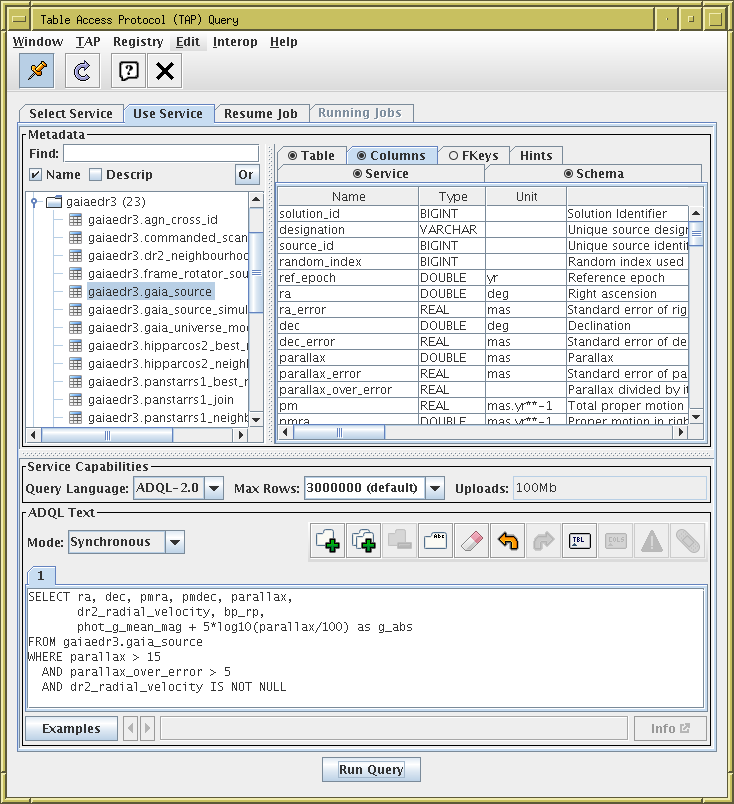
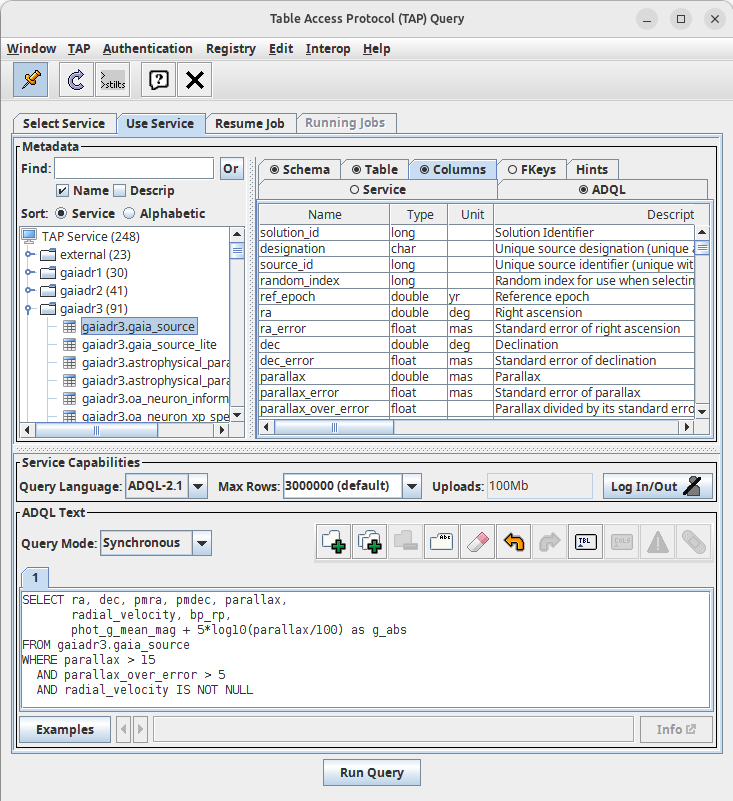
update to Gaia DR3
I have updated the text and the ADQL queries to refer to
Gaia DR3 instead of Gaia EDR3.

The makefile is also updated to generate the intermediate data
file hy3d.fits.

fixup gaia dr3

diff --git a/tctuto.tex b/tctuto.tex
@@ -61,7 +61,7 @@
 \tableofcontents
 
 \vspace{3ex}
-This tutorial uses data from Gaia Early Data Release 3 (EDR3) \cite{edr3}
+This tutorial uses data from Gaia Data Release 3 (DR3) \cite{dr3}
 to lead you through some of the capabilities of TOPCAT and STILTS.
 For best results, you should have the manuals to hand:
 \url{http://www.starlink.ac.uk/topcat/sun253/} and
@@ -85,9 +85,9 @@ the stars in the globular cluster Messier 4 (M4, or NGC 6121).
   \item Open the \mb{CONE_DIALOG.png}{VO}{Cone Search} window \\
         (i.e.\ use the \lab{Cone Search} submenu of the \lab{VO} menu
          in the main topcat window).
-  \item Fill in \entry{Keywords}{gaia edr3}, and hit \lab{Find Services}.
+  \item Fill in \entry{Keywords}{gaia dr3}, and hit \lab{Find Services}.
   \item There are a few options, that should mostly give similar results.
-        The one with Short Name ``{\tt eDR3 lite Cone}'' is a good choice.
+        The one with Short Name ``{\tt DR3 lite Cone}'' is a good choice.
         Select it by clicking on its row, and the
         partial URL of the service appears in the \lab{Cone URL} field.
   \item Fill in \entry{Object Name}{M4}, then hit \lab{Resolve} to fill in
@@ -100,6 +100,7 @@ the stars in the globular cluster Messier 4 (M4, or NGC 6121).
         which retrieves about 20\,000 rows,
         and maybe \entry{Verbosity}{1},
         which reduces the number of columns requested.
+        Or try it with another of the listed services.
   \item Use the \mb{skyplot_button.png}{Graphics}{Sky Plot} window
         to see the positions on the sky.
   \item Play with the plot.  Note overdense regions are coloured darker.
@@ -218,7 +219,7 @@ the stars in the globular cluster Messier 4 (M4, or NGC 6121).
   with smallish errors.
   Rule of thumb for single measurements:
   if $\varpi/\sigma_\varpi>5$ it's probably OK.
-  See Luri et al.\ 2018 \cite{luri} for full discussion.
+  See Luri et al.\ 2018 \cite{luri} for fuller discussion.
 \end{minipage}
 \begin{minipage}[t]{8cm}
   \winfig{width=8cm}{m4_subsets.png}
@@ -262,15 +263,15 @@ So we need to make a more sophisticated query using TAP.
   their metadata.
   \begin{enumerate}
   \item Browse the table list on the left,
-        The tables in the {\tt gaiaedr3} schema
-        are the ones with Gaia EDR3 data.
-  \item Select table {\tt gaiaedr3.gaia\_source} and look at
+        The tables in the {\tt gaiadr3} schema
+        are the ones with Gaia DR3 data.
+  \item Select table {\tt gaiadr3.gaia\_source} and look at
         \lab{Table} and \lab{Columns} tabs,
         to see information about available columns.
   \item Look in the \lab{Service} tab to see information about the service
   \item Look in the \lab{Hints} tab for a very basic ADQL cheat sheet
   \item Type in to the bottom panel some very simple ADQL:\\
-        ``{\tt SELECT TOP 10 ra, dec FROM gaiaedr3.gaia\_source}''
+        ``{\tt SELECT TOP 10 ra, dec FROM gaiadr3.gaia\_source}''
   \item Note that syntax errors (including partial or misspelt tables/columns)
         are highlighted in red.
   \item Hit \lab{Run Query} to run the query;
@@ -282,15 +283,15 @@ So we need to make a more sophisticated query using TAP.
   In the TAP window, execute this query:
   \begin{verbatim}
     SELECT ra, dec, pmra, pmdec, parallax,
-           dr2_radial_velocity, bp_rp,
+           radial_velocity, bp_rp,
            phot_g_mean_mag + 5*log10(parallax/100) as g_abs
-    FROM gaiaedr3.gaia_source
+    FROM gaiadr3.gaia_source
     WHERE parallax > 15
     AND parallax_over_error > 5
-    AND dr2_radial_velocity IS NOT NULL
+    AND radial_velocity IS NOT NULL
   \end{verbatim}
   \vspace*{-2ex}
-  The result should contain about 25\,000 rows.
+  The result should contain about 60\,000 rows.
 \end{minipage}
 \begin{minipage}[t]{8cm}
   \winfig{width=8cm}{hy_tapsel.png}
@@ -304,7 +305,7 @@ So we need to make a more sophisticated query using TAP.
 The query is for all the nearby sources
 (nominally within 1000/15 $\approx$ 66\,parsec)
 with observed radial velocities
-(only about 7 million DR2/EDR3 sources have RV)
+(only about 34 million out of 2 billion DR3 sources have RV)
 and good determinations of parallax.
 The fact that parallax error is $\leq$20\% means that it's OK
 to invert parallax to calculate distance and absolute magnitude.
@@ -335,16 +336,14 @@ TOPCAT's {\em expression language\/} can help.
         and {\tt astromXYZ} functions.
         The \lab{Examples} items in the function documentation are useful;
         for use with the {\tt gaia\_source} catalogue,
-        you can often just cut and paste, though note
-        ``{\tt radial\_velocity}'' may need to be changed to
-        ``{\tt dr2\_radial\_velocity}''.
+        you can often just cut and paste
   \item Open the \mb{cols_button.png}{Views}{Column Info} window
         and choose the \mb{plus_button.png}{Columns}{New Synthetic Column}
         action
   \item Create a new column giving Cartesian velocity components:
         \entry{Name}{uvw}, \entry{Units}{km/s} and for \lab{Expression}:
         \begin{verbatim}
-  astromUVW(array(ra, dec, parallax, pmra, pmdec, dr2_radial_velocity))
+   astromUVW(array(ra, dec, parallax, pmra, pmdec, radial_velocity))
         \end{verbatim}
         \vspace*{-0.5cm}
         That calculates velocities along ICRS axes.
@@ -383,8 +382,8 @@ TOPCAT's {\em expression language\/} can help.
         Click the little \buttimg{navig_help.png} button at bottom left
         for navigation help;
         the most useful actions are mouse wheel
-        (2-fingered up/down drag on some trackpads) to zoom,
-        and right click on a dense region to recenter.
+        (2-fingered drag on some trackpads) to zoom,
+        and right click (or CTRL-click) on a dense region to recenter.
   \item Navigate so only the objects in the overdense region
         (about 200 of them?) are visible inside the wireframe ---
         these are the Hyades.
@@ -451,7 +450,8 @@ TOPCAT's {\em expression language\/} can help.
   \subsection*{Bonus}
   \begin{itemize}
     \item Can you find any other clusters in velocity space?
-    \item Try refining the selection by localising in position space too.
+    \item Try refining the selection by localising in position space
+          or HR space too.
     \item What is the mean distance to the Hyades?
     \item Try using Aladin and SAMP along with TOPCAT
           to investigate the outliers.
@@ -494,9 +494,9 @@ at J2016.0.
   \end{enumerate}
   Alternatively, you could download the table from the VizieR web page.
 \end{minipage}
-\begin{minipage}[t]{8cm}
+\begin{minipage}[t]{7.5cm}
   \vspace*{-1cm}
-  \winfig{width=8cm}{n3_vizier.png}
+  \winfig{width=7.5cm}{n3_vizier.png}
 \end{minipage}
 
 
@@ -506,17 +506,17 @@ at J2016.0.
 \begin{minipage}[t]{11cm}
   \raggedright
   Now we want to find associations of the HST objects with sources
-  from Gaia EDR3.
+  from Gaia DR3.
   Use the CDS X-Match service from TOPCAT.
   This uploads a local table to the CDS X-Match service,
-  where the match is made against the Gaia EDR3 catalogue
+  where the match is made against the Gaia DR3 catalogue
   (or any other catalogue in VizieR).
   The resulting matched catalogue is then received as a new
   table in TOPCAT.
   \begin{enumerate}
   \item Open the \mb{xmatch_button.png}{VO}{CDS Upload X-Match} window
   \item Fill in the fields:\\
-        \entry{VizieR Table ID/Alias}{GAIA EDR3} \\
+        \entry{VizieR Table ID/Alias}{Gaia DR3 (Epoch 2016)} \\
         \entry{Input Table}{J\_ApJS\_166\_549\_table2} \\
         (or whatever the HST table is called) \\
         \entry{RA column}{\_RAJ000}, \entry{Dec column}{\_DEJ2000}  \\
@@ -529,14 +529,10 @@ at J2016.0.
   \item Look at the columns of the new table (all HST followed by all Gaia)
         in the \mb{cols_button.png}{Views}{Column Info} window
   \end{enumerate}
-Note: the match is done with Gaia coordinates rolled back
-(using Gaia proper motions) to J2000.0.
-These propagated columns are in the matched table as
-{\tt ra\_epoch2000}, {\tt dec\_epoch2000}.
 \end{minipage}
-\begin{minipage}[t]{8cm}
+\begin{minipage}[t]{7.5cm}
   \vspace*{-0.5cm}
-  \winfig{width=8cm}{n3_cdsxmatch.png}
+  \winfig{width=7.5cm}{n3_cdsxmatch.png}
 \end{minipage}
 
 
@@ -553,11 +549,11 @@ These propagated columns are in the matched table as
   \item Overplot the actual matches.
         Add a new {Pair} layer:
         \mb{pairs_button.png}{Layers}{Add Pair Control} and fill in:\\
-        \entry{Table}{4xGAIA EDR3}
+        \entry{Table}{4xGAIA DR3}
               (or whatever the xmatch result table is called)
         and both sets of coordinates: \\
         \entry{Lon(1)}{\_RAJ2000}, \entry{Lat(1)}{\_DEJ2000} (HST) \\
-        \entry{Lon(2)}{ra}, \entry{Lat(2)}{dec} (Gaia)
+        \entry{Lon(2)}{RAdeg}, \entry{Lat(2)}{DEdeg} (Gaia)
   \item Zoom in to look at the associations.  There are too many!
         What is this plot telling you?
   \item You can fiddle around with the \lab{Form} tab to make the
@@ -587,9 +583,9 @@ These propagated columns are in the matched table as
         Open \mb{cols_button.png}{Views}{Column Info} window, \\
         then define new columns using
         \mb{plus_button.png}{Columns}{New Synthetic Column}: \\
-        \entry{Name}{deltaRa}, \entry{Expression}{3600*(ra - \_RAJ2000)},
+        \entry{Name}{deltaRa}, \entry{Expression}{3600*(RAdeg - \_RAJ2000)},
                                \entry{Units}{arcsec} \\
-        \entry{Name}{deltaDec}, \entry{Expression}{3600*(dec - \_DEJ2000)},
+        \entry{Name}{deltaDec}, \entry{Expression}{3600*(DEdeg - \_DEJ2000)},
                                 \entry{Units}{arcsec}
   \item Use \mb{planeplot_button.png}{Graphics}{Plane Plot} window, \\
         plot \entry{X}{deltaRa}, \entry{Y}{deltaDec}
@@ -608,15 +604,6 @@ These propagated columns are in the matched table as
 \begin{minipage}[t]{8cm}
   \winfig{width=8cm}{n3_truematch.png}
 \end{minipage}
-
-\paragap
-Note: in the above we have used the Gaia columns {\tt ra} and {\tt dec},
-giving the positions observed at J2016.0.
-It would be a bit better to use {\tt ra\_epoch2000} and {\tt dec\_epoch2000},
-the positions rolled back to J2000.0 using Gaia proper motions,
-since the HST observations were at about J2014.6, and even better to
-apply proper motions to get the positions at J2014.6.
-But the differences (motion over 10--15 years) are fairly small.
 
 
 \begin{minipage}[t]{11cm}
@@ -667,11 +654,8 @@ But the differences (motion over 10--15 years) are fairly small.
         (as in section \ref{sec:histo-mean})
         to find the mean values of $\delta$\,RA, $\delta$\,Dec for
         the true matches.  What do these values tell you?
-  \item The match done here is between Gaia positions at J2016.0 and
+  \item The matches done here are between Gaia positions at J2016.0 and
         HST positions taken at approximately J2004.6.
-        When using the X-Match service in section \ref{sec:cdsxmatch},
-        Gaia proper motions were automatically applied
-        to predict the Gaia positions at J2000.0.
         Use the {\tt epochProp} function in the expression language
         to do the match with the positions as Gaia proper motions
         predict for J2004.6.  Does it make much difference?
@@ -748,7 +732,7 @@ for later batch use like this is a common pattern of work.
 \item Putting those together, we need to run
       \preverb
       \begin{verbatim}
-      stilts cone serviceurl="http://dc.zah.uni-heidelberg.de/gaia/q3/cone/scs.xml?" 
+      stilts cone serviceurl="http://dc.g-vo.org/gaia/q3/cone/scs.xml?" 
                   lon=245.89675 lat=-26.52575 radius=0.3 out=m4.fits
       \end{verbatim}
       \postverb
@@ -825,7 +809,7 @@ on the command line, documented in Section 6.4: ``Output Modes'' of the manual.
       \end{verbatim}
       \postverb
 \item View a few rows of the table.
-      The using the {\tt head} filter keeps only the first few rows:
+      Then using the {\tt head} filter keeps only the first few rows:
       \preverb
       \begin{verbatim}
       stilts tpipe in=m4mini.fits cmd="head 10"
@@ -940,14 +924,14 @@ Lindegren et al.\ 2018 \cite{lindegren}.
     SELECT ra, dec, parallax, phot_g_mean_mag, bp_rp,
            astrometric_excess_noise,
            phot_bp_rp_excess_factor
-    FROM gaiadr2.gaia_source
+    FROM gaiadr3.gaia_source
     WHERE parallax > 10
       AND parallax_over_error > 10
       AND phot_bp_mean_flux_over_error > 10
       AND phot_rp_mean_flux_over_error > 10
     \end{verbatim}
     \vspace*{-3ex}
-    You should get a table with 338\,833 sources;
+    You should get a table with 306\,517 sources;
     they are nominally within 100\,pc, and have $\varpi$, BP and RP
     with small errors.  In particular, the parallax error is small enough
     that $\varpi^{-1}$ is a reasonable estimate of distance.
@@ -1042,7 +1026,7 @@ But you didn't need to know that to improve the data like this.
         subset is plotted (\lab{Subsets} tab).
         Now there are fewer spurious sources.
   \end{enumerate}
-  Leave this session open, we'll need some of it for the next section.
+% Leave this session open, we'll need some of it for the next section.
 \end{minipage}
 \begin{minipage}[t]{8cm}
   \winfig{width=8cm}{hrd_photom.png}
@@ -1262,11 +1246,11 @@ Go back and reproduce all the other exercises using STILTS!
 
 
 \begin{thebibliography}{9}
-\bibitem{edr3}
+\bibitem{dr3}
    Gaia Collaboration et al.,
-   ``Gaia Early Data Release 3: Summary of the contents and survey properties'',
+   ``Gaia Data Release 3: Summary of the contents and survey properties'',
    Astronomy and Astrophysics
-   {\tt https://doi.org/10.1051/0004-6361/202039657} (2021)
+   {\tt https://doi.org/10.1051/0004-6361/202243940} (2023)
 \bibitem{luri}
    X.Luri et al.,
    ``Gaia DR2: Using Gaia parallaxes'',
